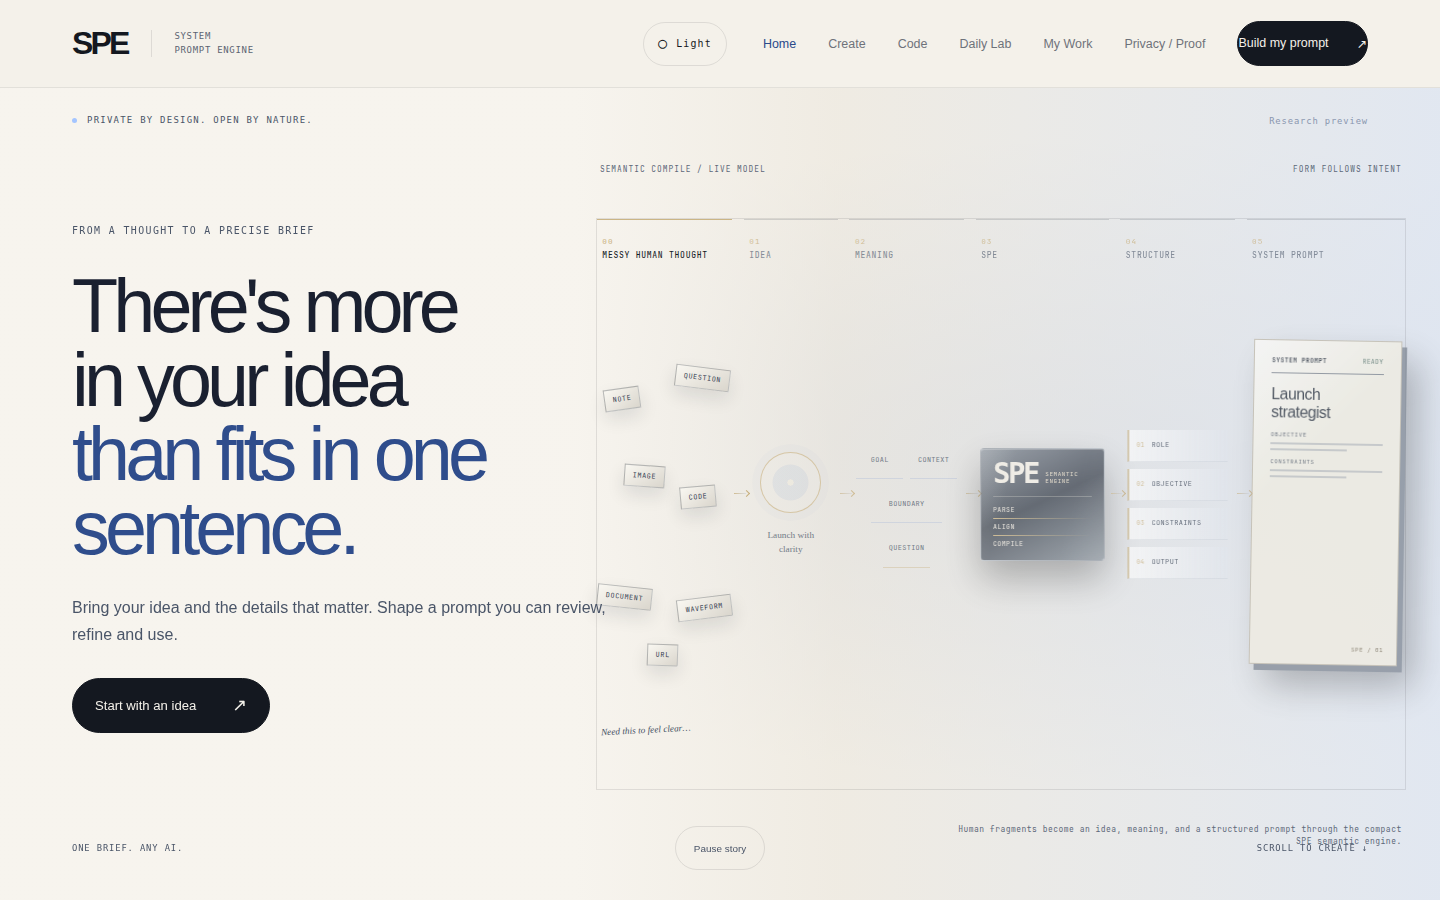
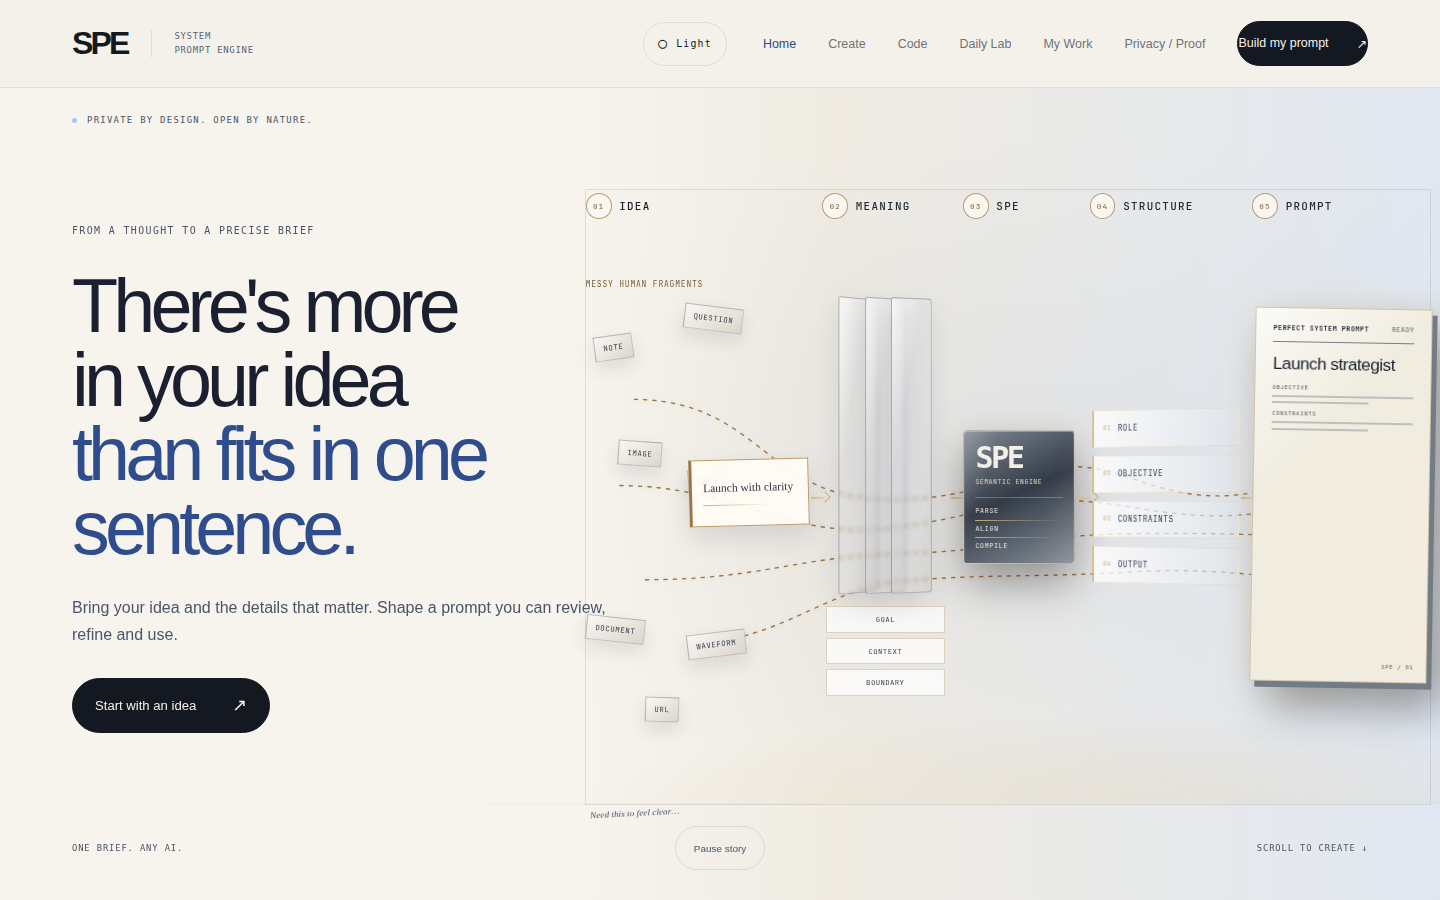
docs: update founder HOLD hero evidence

diff --git a/proofs/spe_v1_continuation/BATCH_A_HERO_REPORT.md b/proofs/spe_v1_continuation/BATCH_A_HERO_REPORT.md
@@ -109,3 +109,44 @@ through the SYSTEM PROMPT artifact before the prompt studio begins.
 ## Explicit stop
 
 Batch A is complete. Batches B–I were not started.
+
+## Founder HOLD repair — desktop story clarity
+
+**Tested repair tip SHA:** `b2447eb2d086a2d994da3060ad54a962723eb817`
+**Target:** the three founder-supplied cinematic glass references, interpreted
+without tracing foreign branding.
+
+- Replaced the dense six-column board with five prominent numbered stages:
+  `IDEA → MEANING → SPE → STRUCTURE → PROMPT`.
+- Kept messy notes, question, image, code, document, waveform, and URL fragments
+  visible inside IDEA, resolving through warm-gold flow lines.
+- Added translucent MEANING filter panes; kept the compact rectangular SPE
+  semantic engine specifically between MEANING and STRUCTURE.
+- Increased stage hierarchy, removed competing desktop micro-chrome and the
+  orb-like IDEA mark, and strengthened the organized cards and illuminated
+  `PERFECT SYSTEM PROMPT` artifact.
+- Light mode uses the same hierarchy with restrained warm graphite/gold
+  contrast. Reduced motion keeps a static equivalent. Mobile remains a complete
+  unclipped vertical story.
+
+| HOLD-repair check | Exit |
+|---|---:|
+| `cd apps/web && npm run build` | `0` |
+| `cd apps/web && npm run test:hero-story` | `0` |
+| `cd apps/web && node scripts/test-theme-routes.mjs` | `0` |
+| `node proofs/spe_v1_gap_closure/a11y_verify.mjs` | `0` |
+| `cd apps/web && npm run test:predeploy-qa` | `0` |
+| `node tools/copy-check.mjs` | `0` |
+| `node proofs/spe_v1_continuation/batch_a/capture_hero.mjs` | `0` |
+| `node tools/deployment-safety-gate.mjs` | **`2`** (expected fail-closed) |
+
+Fresh captures:
+
+- `proofs/spe_v1_continuation/batch_a/home-dark.png`
+- `proofs/spe_v1_continuation/batch_a/home-light.png`
+- `proofs/spe_v1_continuation/batch_a/reduced-motion.png`
+
+Residuals: founder visual acceptance remains pending; the references are a
+directional target, not a claim of pixel equivalence. Aikido was invoked again
+for the repair files but remains blocked on integration authentication.
+`HOSTING=FORBIDDEN`; `WORLD #1=NOT_PROVEN`; Batches B–I were not started.
